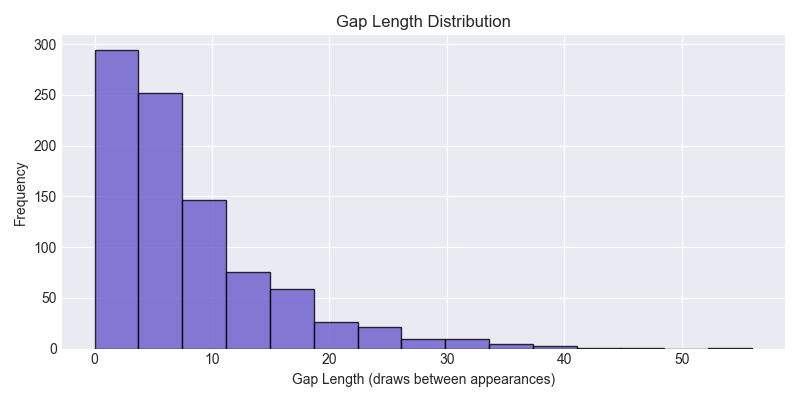
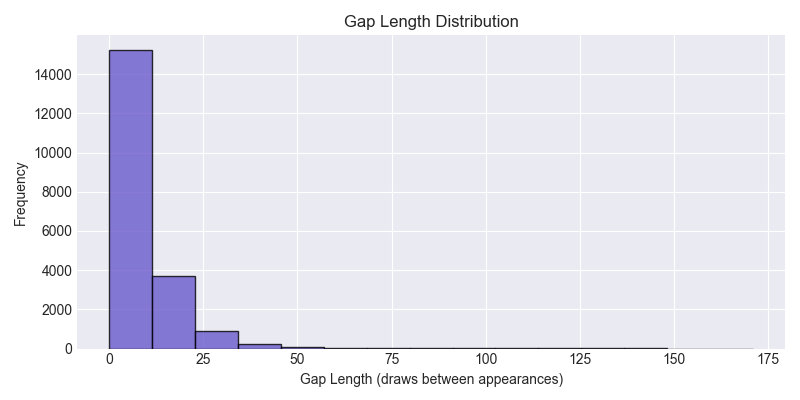
modify daily timeadded cvs to txt

diff --git a/utils/viz.py b/utils/viz.py
@@ -25,7 +25,7 @@ def plot_number_frequency(freq_dict, title="Number Frequency", xlabel="Number", 
             ha='center', va='bottom', fontsize=10
         )
     plt.tight_layout()
-    plt.savefig('plots/frequency_chart.png')
+    plt.savefig('plots/frequency_chart_all.png')
     plt.show()
 
 # Hot/Warm/Cold plot with categories and number annotations
@@ -55,7 +55,7 @@ def plot_hot_warm_cold(freq_dict, hot, warm, cold, title="Hot/Warm/Cold Number F
                 str(n),
                 ha='center', va='bottom', fontsize=9)
     plt.tight_layout()
-    plt.savefig('plots/hot_warm_cold.png')
+    plt.savefig('plots/hwc_all.png')
     plt.show()
 
 def plot_residuals_heatmap(freq_dict, n_numbers, n_draws, expected_per_number, title="Standardized Residuals Heatmap"):
@@ -75,7 +75,7 @@ def plot_residuals_heatmap(freq_dict, n_numbers, n_draws, expected_per_number, t
     plt.title(title)
     plt.xlabel("Number")
     plt.tight_layout()
-    plt.savefig('plots/res_heatmap.png')
+    plt.savefig('plots/res_heatmap_all.png')
     plt.show()
 
 def plot_gap_histogram(gaps_dict, title="Gap Length Distribution", bins=15):
@@ -104,7 +104,7 @@ def plot_gap_length_per_number(gaps_dict, title="Gap Lengths by Number"):
     plt.ylabel("Gap Length")
     plt.title(title)
     plt.tight_layout()
-    plt.savefig('plots/gap_per.png')
+    plt.savefig('plots/gap_per_all.png')
     plt.show()
 
 def plot_sum_trend(df, number_columns, window=20, title="Sum Trend of Drawn Numbers"):
@@ -124,12 +124,12 @@ def plot_sum_trend(df, number_columns, window=20, title="Sum Trend of Drawn Numb
     plt.title(title)
     plt.legend()
     plt.tight_layout()
-    plt.savefig('plots/sum_trend.png')
+    plt.savefig('plots/sum_trend_all.png')
     plt.show()
 
 def plot_empirical_vs_theoretical(prob_df, title="Empirical vs. Theoretical Probability by Number"):
     ax = prob_df.plot(x="Number", y=["Empirical Probability", "Theoretical Probability"], kind="bar", figsize=(12,5))
     plt.title(title)
     plt.tight_layout()
-    plt.savefig('plots/emperical_vs_theoretical.png')
+    plt.savefig('plots/emper_vs_theor_all.png')
     plt.show()

diff --git a/scripts/daily.py b/scripts/daily.py
@@ -1,6 +1,14 @@
 import pandas as pd
 from bs4 import BeautifulSoup
 import requests
+import os
+print("Current working directory:", os.getcwd())
+print("Full path being checked:", os.path.abspath('data/hit5_all_history.csv'))
+print("File exists?", os.path.exists('data/hit5_all_history.csv'))
+
+# List files in data folder
+if os.path.exists('data'):
+    print("Files in data/:", os.listdir('data'))
 
 BASE = "https://www.walottery.com/WinningNumbers/PastDrawings.aspx"
 HIST_PATH = "data/hit5_all_history.csv"

diff --git a/scripts/csv_to_txt.py b/scripts/csv_to_txt.py
@@ -1,0 +1,7 @@
+import pandas as pd
+
+# Load your CSV (replace with your file path, e.g., Hit5 data)
+df = pd.read_csv('data/hit5_all_history.csv')
+
+# Export to TXT (customize sep for space-delimited if needed, e.g., sep=' ')
+df.to_csv('data/hit5_all_history.txt', index=False, header=True)  # index=False skips row numbers

diff --git a/scripts/analysis.py b/scripts/analysis.py
@@ -16,7 +16,7 @@ from utils.viz import (
 )
 
 # --- Load Data ---
-DATA_PATH = 'data/hit5_clean_deduped.csv'
+DATA_PATH = 'data/hit5_all_history.csv'
 NUMBER_COLUMNS = ['Num1', 'Num2', 'Num3', 'Num4', 'Num5']
 df = pd.read_csv(DATA_PATH)
 all_numbers = pd.Series(df[NUMBER_COLUMNS].values.flatten())
